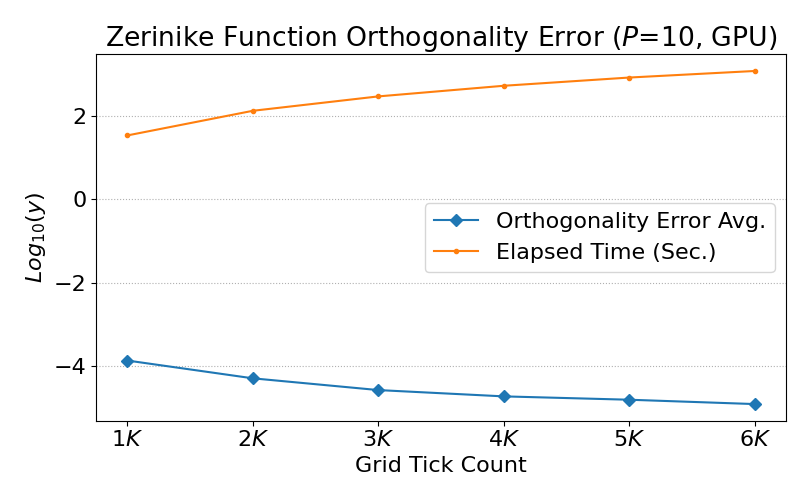
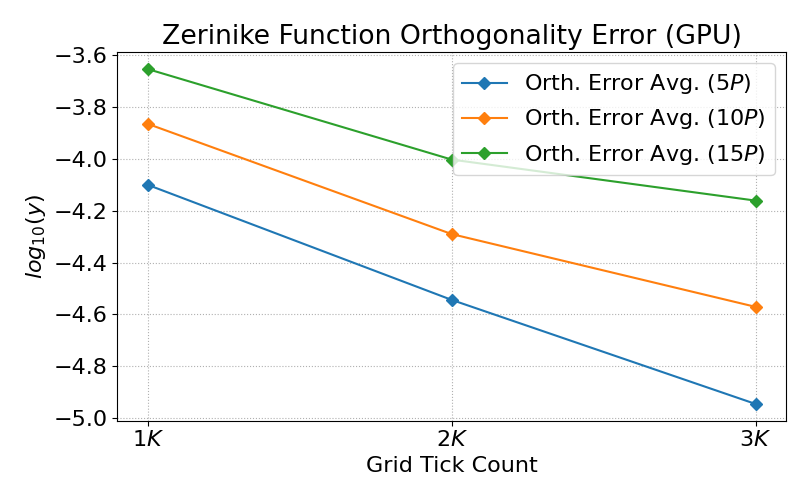
**

diff --git a/ATest_08_Zernike_Orth.py b/ATest_08_Zernike_Orth.py
@@ -257,7 +257,7 @@ def validte_radial_function_ortho( T, Ks, debug=0 ) :
     print_curr_time()
 pass # -- validte_radial_polynomial
 
-def test_zernike_function_ortho( T, Ks, use_gpu=1, use_hash=0, debug = 0 ) : 
+def test_zernike_function_ortho( Ps, Ks, use_gpu=1, use_hash=0, debug = 0 ) : 
     print()
 
     hash = {} if use_hash else None
@@ -267,95 +267,95 @@ def test_zernike_function_ortho( T, Ks, use_gpu=1, use_hash=0, debug = 0 ) :
 
     print( f"device = {device_name}, hash = { hash is not None }" )
 
-    error_avgs = []
-    elapsed_list = []
-
-    for K in tqdm( Ks, desc="K" ) :
-        resolution = int( 1_000*K )
-
-        if 1 or debug : 
-            print( line2 )
-            print( f"K = {K}, Resolution = {resolution:_}, P = {T}", flush=1 )
-        pass
-        
-        then = time.time() 
-
-        rho, theta, x, y, dx, dy, k, area = rho_theta( resolution, circle_type="inner", device=device, debug=debug )
-        
-        error_sum = 0
-        
-        hash= {}
-        
-        cnt = 0 
-        for p in range( 0, T + 1 ) :
-            for q in range( -p, p + 1, 2 ) :
-                for n in range( 0, T + 1 ) :
-                    for m in range( -n, n + 1, 2 ) : 
-                        v_pl = Vpq( p, q, rho, theta, device=device, hash=hash, debug=debug )
-                        v_ql = Vpq( n, m, rho, theta, device=device, hash=hash, debug=debug )
-
-                        sum_arr = torch.sum( torch.conj(v_pl)*v_ql )
-                        sum_integration = sum_arr*dx*dy*(p +1)/pi
-                        sum = torch.absolute( sum_integration )
-
-                        expect = [0, 1][ p == n and q == m ]
-                        error = abs(expect -sum)
-                        error_sum += error
-
-                        if not use_hash :
-                            del v_pl, v_ql, sum_arr, sum_integration
-                        pass
-
-                        if debug : print( f"[{cnt:04d}] : V*pl({p}, {q:2d})*Vpl({n}, {m:2d}) = {sum:.4f}, exptect = {expect}, error={error:.4f}", flush=1 )
-                        cnt += 1
-                    pass
-                pass
-            pass
-        pass
-
-        del hash
-
-        error_avg = error_sum/cnt
-        error_avgs.append( error_avg )
-        
-        elapsed = time.time() - then
-        elapsed_list.append( elapsed )
-
-        if 1 or debug : 
-            print( f"Elapsed time = {elapsed:_.4f}" )
-            print( f"Error avg. = {error_avg:_.10f}" )
-            #print( f"Success = {success_ratio*100:.2f}%, Fail count = {fail_cnt}, Good count = {good_cnt}", flush="True" )
-        pass
-    pass
-
-    print( "\nPlotting .... ", flush="True" )
-
     fs = fontsize = 16
     plt.rcParams["font.family"] = "sans-serif"
     plt.rcParams["font.size"] = fontsize
 
     row_cnt = 1; col_cnt = 1
-    fig, charts = plt.subplots( row_cnt, col_cnt, figsize=( 8.1*col_cnt, 5*row_cnt) )
+    fig, charts = plt.subplots( row_cnt, col_cnt, figsize=( 8.1*col_cnt, 5*row_cnt), tight_layout=1 )
     charts = charts.flatten() if row_cnt*col_cnt > 1 else [charts]
-    chart_idx = 0 
-    chart = charts[ chart_idx ]
+    
+    for idx, P in enumerate( Ps )  :
+        error_avgs = []
+        elapsed_list = []
 
-    Ks = Ks.clone().detach()
-    error_avgs = torch.log10( torch.tensor( error_avgs ) )
-    elapsed_list = torch.log10( torch.tensor( elapsed_list ) )
+        for K in Ks :
+            resolution = int( 1_000*K )
 
-    chart.plot( Ks, error_avgs, marker="D", label="Orthogonality Error Avg." )
-    chart.plot( Ks, elapsed_list, marker=".", label="Elapsed Time (Sec.)" )
+            if 1 or debug : 
+                print( line2 )
+                print( f"K = {K}, Resolution = {resolution:_}, P = {P}", flush=1 )
+            pass
+            
+            then = time.time() 
 
-    chart.set_title( f"Zerinike Function Orthogonality Error ($P$={T}, {device_name})" )
-    chart.set_xlabel( "Grid Tick Count" )
-    chart.set_ylabel( "$Log_{10}(y)$" )
-    chart.set_xticks( Ks ) 
-    chart.set_xticklabels( [ f"{int(x)}$K$" for x in Ks ] )
-    chart.grid( axis='y', linestyle="dotted" )
-    chart.legend()
+            rho, theta, x, y, dx, dy, k, area = rho_theta( resolution, circle_type="inner", device=device, debug=debug )
+            
+            error_sum = 0
+            
+            hash= {}
+            
+            cnt = 0 
+            for p in range( 0, P + 1 ) :
+                for q in range( -p, p + 1, 2 ) :
+                    for n in range( 0, P + 1 ) :
+                        for m in range( -n, n + 1, 2 ) : 
+                            v_pl = Vpq( p, q, rho, theta, device=device, hash=hash, debug=debug )
+                            v_ql = Vpq( n, m, rho, theta, device=device, hash=hash, debug=debug )
 
-    plt.tight_layout()
+                            sum_arr = torch.sum( torch.conj(v_pl)*v_ql )
+                            sum_integration = sum_arr*dx*dy*(p +1)/pi
+                            sum = torch.absolute( sum_integration )
+
+                            expect = [0, 1][ p == n and q == m ]
+                            error = abs(expect -sum)
+                            error_sum += error
+
+                            if not use_hash :
+                                del v_pl, v_ql, sum_arr, sum_integration
+                            pass
+
+                            if debug : print( f"[{cnt:04d}] : V*pl({p}, {q:2d})*Vpl({n}, {m:2d}) = {sum:.4f}, exptect = {expect}, error={error:.4f}", flush=1 )
+                            cnt += 1
+                        pass
+                    pass
+                pass
+            pass
+
+            del hash
+
+            error_avg = error_sum/cnt
+            error_avgs.append( error_avg )
+            
+            elapsed = time.time() - then
+            elapsed_list.append( elapsed )
+
+            if 1 or debug : 
+                print( f"Elapsed time = {elapsed:_.4f}" )
+                print( f"Error avg. = {error_avg:_.10f}" )
+                #print( f"Success = {success_ratio*100:.2f}%, Fail count = {fail_cnt}, Good count = {good_cnt}", flush="True" )
+            pass
+        pass
+
+        chart_idx = 0
+        chart = charts[ chart_idx ]
+
+        Ks = Ks.clone().detach()
+        error_avgs = torch.log10( torch.tensor( error_avgs ) )
+        elapsed_list = torch.log10( torch.tensor( elapsed_list ) )
+
+        chart.plot( Ks, error_avgs, marker="D", label=f"Orth. Error Avg. (${P}P$)" )
+        #chart.plot( Ks, elapsed_list, marker=".", label="Elapsed Time (Sec.)" )
+
+        chart.set_title( f"Zerinike Function Orthogonality Error ({device_name})" )
+        chart.set_xlabel( "Grid Tick Count" )
+        chart.set_ylabel( "$log_{10}(y)$" )
+        chart.set_xticks( Ks ) 
+        chart.set_xticklabels( [ f"{int(x)}$K$" for x in Ks ] )
+        chart.grid( axis='x', linestyle="dotted" )
+        chart.grid( axis='y', linestyle="dotted" )
+        chart.legend() 
+    pass # data
 
     src_dir = os.path.dirname( os.path.abspath(__file__) )
     result_figure_file = f"{src_dir}/result/zernike_03_function_orthogonality.png"

diff --git a/AACode.py b/AACode.py
@@ -37,6 +37,8 @@ charts = charts.ravel() if row_cnt*col_cnt > 1 else [charts]
 chart_idx = 0 
 chart = charts[ chart_idx ] ; chart_idx += 1
 
+markers = [ "o", "s", "p", "*", "D", "^", "X", "2", "p", "h", "+" ]
+
 chart.grid( axis='y', linestyle="dotted" )
 chart.legend( loc="lower center", bbox_to_anchor=(0.5, -0.26), fontsize=fs-4, ncols=3 )
 
